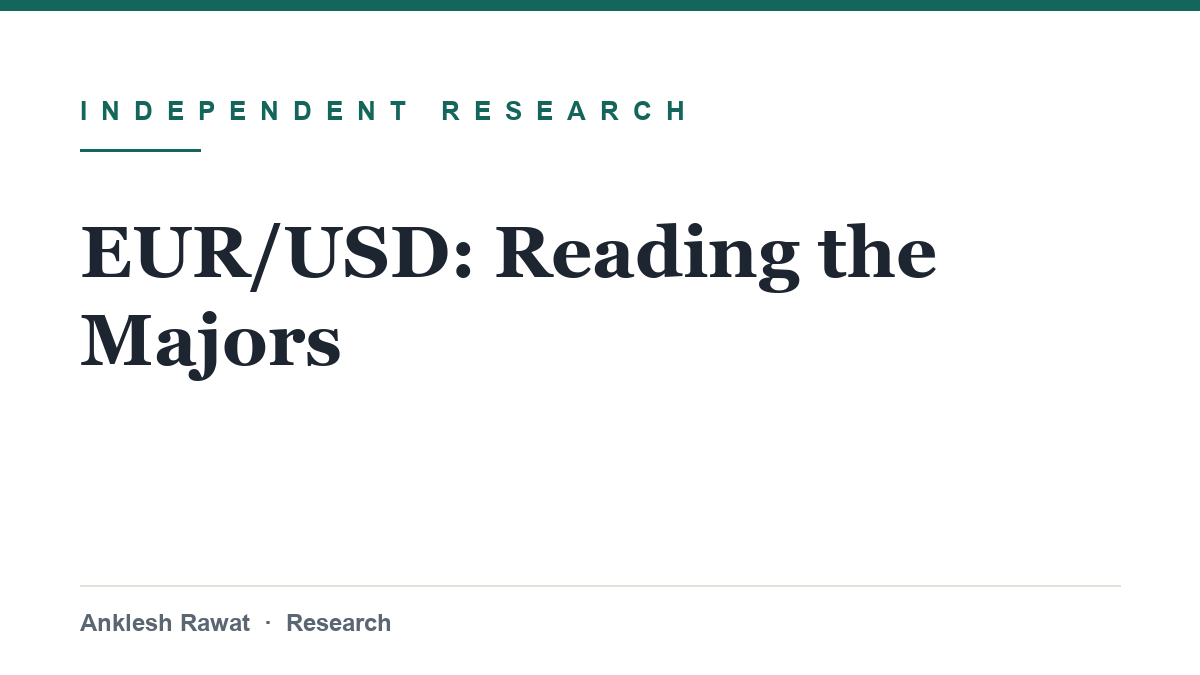
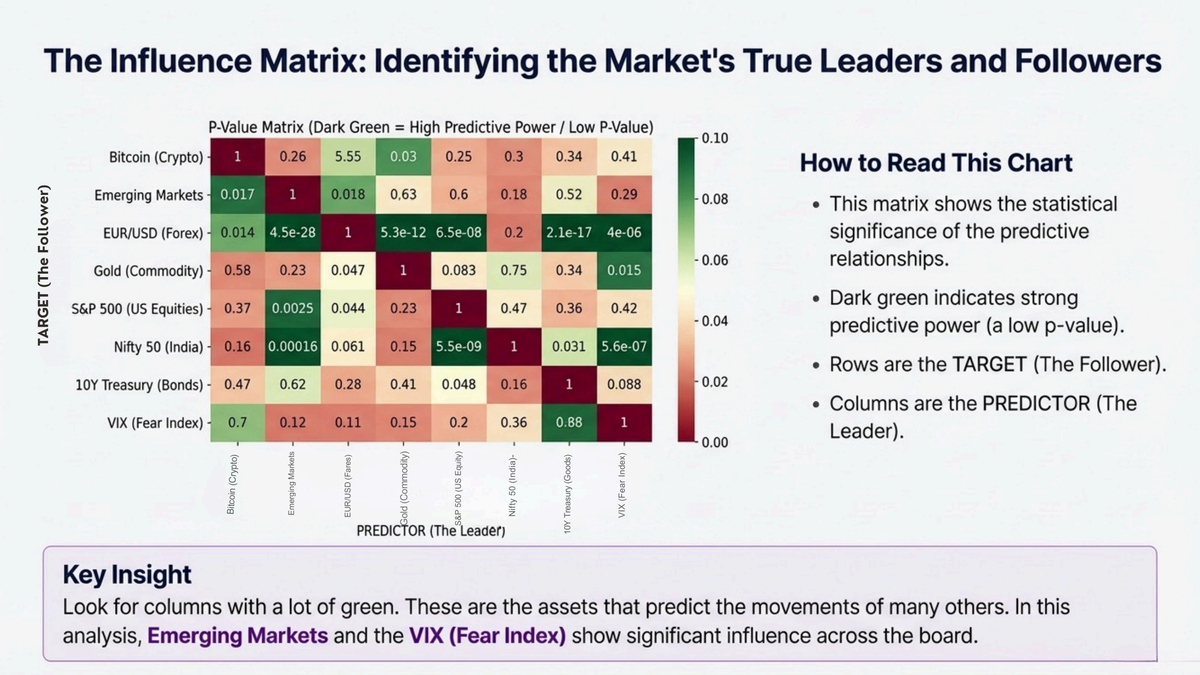
LinkedIn links, real PDF thumbnails, OG card, vibrancy pass
- LinkedIn in footer, contact buttons, and hero meta column
- Real page-1 thumbnails for River-as-a-Service and EUR/USD PDFs (pypdfium2)
- OG social-share card (public/og.png) wired into metadata + twitter card
- Accent-soft kicker pills, category accent dots, contact section tint
- Smooth scroll, accent focus-visible ring

diff --git a/app/page.tsx b/app/page.tsx
@@ -131,6 +131,7 @@ export default function Home() {
                 ["Education", "MBA, IIM Bodh Gaya"],
                 ["Contact", "[email redacted]"],
                 ["Code", "github.com/DogInfantry"],
+                ["LinkedIn", "in/anklesh-rawat-00508a1aa"],
               ].map(([k, v]) => (
                 <div key={k} className="border-t border-line py-3">
                   <dt className="sc text-muted">{k}</dt>
@@ -152,7 +153,7 @@ export default function Home() {
       {/* Projects */}
       <section id="projects" className="scroll-mt-24 py-16">
         <Reveal>
-          <p className="sc text-accent">Selected work</p>
+          <p className="sc kicker">Selected work</p>
           <h2 className="mt-2 font-serif text-4xl tracking-tight">Projects</h2>
         </Reveal>
         <div className="mt-12 flex flex-col gap-20">
@@ -206,7 +207,7 @@ export default function Home() {
       {/* About */}
       <section id="about" className="scroll-mt-24 border-t border-line py-16">
         <Reveal>
-          <p className="sc text-accent">Background</p>
+          <p className="sc kicker">Background</p>
           <h2 className="mt-2 font-serif text-4xl tracking-tight">About</h2>
           <div className="mt-8 max-w-2xl space-y-4 leading-relaxed text-muted">
             <p>
@@ -247,8 +248,8 @@ export default function Home() {
       {/* Contact */}
       <section id="contact" className="scroll-mt-24 py-16 pb-28">
         <Reveal>
-          <div className="border-y border-line py-14 text-center">
-            <p className="sc text-accent">Contact</p>
+          <div className="rounded-md border border-line bg-accent-soft/60 px-6 py-14 text-center">
+            <p className="sc kicker">Contact</p>
             <h2 className="mt-3 font-serif text-4xl tracking-tight">
               Let&apos;s talk
             </h2>
@@ -264,10 +265,18 @@ export default function Home() {
                 [email redacted]
               </a>
               <a
+                href="https://www.linkedin.com/in/anklesh-rawat-00508a1aa/"
+                target="_blank"
+                rel="noopener noreferrer"
+                className="rounded-sm border border-line bg-card px-6 py-2.5 text-sm font-medium transition-colors hover:border-accent hover:text-accent"
+              >
+                LinkedIn ↗
+              </a>
+              <a
                 href="https://github.com/DogInfantry"
                 target="_blank"
                 rel="noopener noreferrer"
-                className="rounded-sm border border-line px-6 py-2.5 text-sm font-medium transition-colors hover:border-accent hover:text-accent"
+                className="rounded-sm border border-line bg-card px-6 py-2.5 text-sm font-medium transition-colors hover:border-accent hover:text-accent"
               >
                 GitHub ↗
               </a>

diff --git a/app/globals.css b/app/globals.css
@@ -23,10 +23,19 @@
   --font-mono: var(--font-geist-mono);
 }
 
+html {
+  scroll-behavior: smooth;
+}
+
 body {
   background: var(--background);
   color: var(--foreground);
   font-family: var(--font-sans), system-ui, sans-serif;
+}
+
+:focus-visible {
+  outline: 2px solid var(--accent);
+  outline-offset: 2px;
 }
 
 ::selection {
@@ -43,6 +52,15 @@ body {
 }
 .tnum {
   font-variant-numeric: tabular-nums;
+}
+
+/* section kicker: small-caps label on a soft accent pill */
+.kicker {
+  display: inline-block;
+  padding: 4px 12px;
+  border-radius: 999px;
+  background: var(--accent-soft);
+  color: var(--accent);
 }
 
 /* animated link underline */

diff --git a/components/FeatureRow.tsx b/components/FeatureRow.tsx
@@ -16,8 +16,13 @@ export default function FeatureRow({
     <div>
       {/* index rule */}
       <div className="mb-8 flex items-baseline justify-between gap-4 border-t border-line pt-3">
-        <p className="sc tnum text-muted">
-          No. {String(index + 1).padStart(2, "0")} · {project.category}
+        <p className="sc tnum flex items-center gap-2 text-muted">
+          No. {String(index + 1).padStart(2, "0")}
+          <span
+            aria-hidden="true"
+            className="inline-block h-1.5 w-1.5 rounded-full bg-accent"
+          />
+          <span className="text-accent">{project.category}</span>
         </p>
         <p className="sc tnum hidden text-muted/70 sm:block">{project.fact}</p>
       </div>

diff --git a/components/Footer.tsx b/components/Footer.tsx
@@ -20,6 +20,14 @@ export default function Footer() {
               Email
             </a>
             <a
+              href="https://www.linkedin.com/in/anklesh-rawat-00508a1aa/"
+              target="_blank"
+              rel="noopener noreferrer"
+              className="transition-colors hover:text-accent"
+            >
+              LinkedIn
+            </a>
+            <a
               href="https://github.com/DogInfantry"
               target="_blank"
               rel="noopener noreferrer"

diff --git a/app/layout.tsx b/app/layout.tsx
@@ -33,6 +33,11 @@ export const metadata: Metadata = {
     description:
       "Covenant surveillance, equity research engines, capital markets intelligence, and sustainable finance research.",
     type: "website",
+    images: ["/og.png"],
+  },
+  twitter: {
+    card: "summary_large_image",
+    images: ["/og.png"],
   },
 };
 

diff --git a/app/research/page.tsx b/app/research/page.tsx
@@ -10,7 +10,7 @@ export const metadata: Metadata = {
 export default function ResearchPage() {
   return (
     <div className="mx-auto max-w-4xl px-5 py-16">
-      <p className="sc text-accent">Selected research</p>
+      <p className="sc kicker">Selected research</p>
       <h1 className="mt-2 font-serif text-4xl tracking-tight sm:text-5xl">
         Research
       </h1>